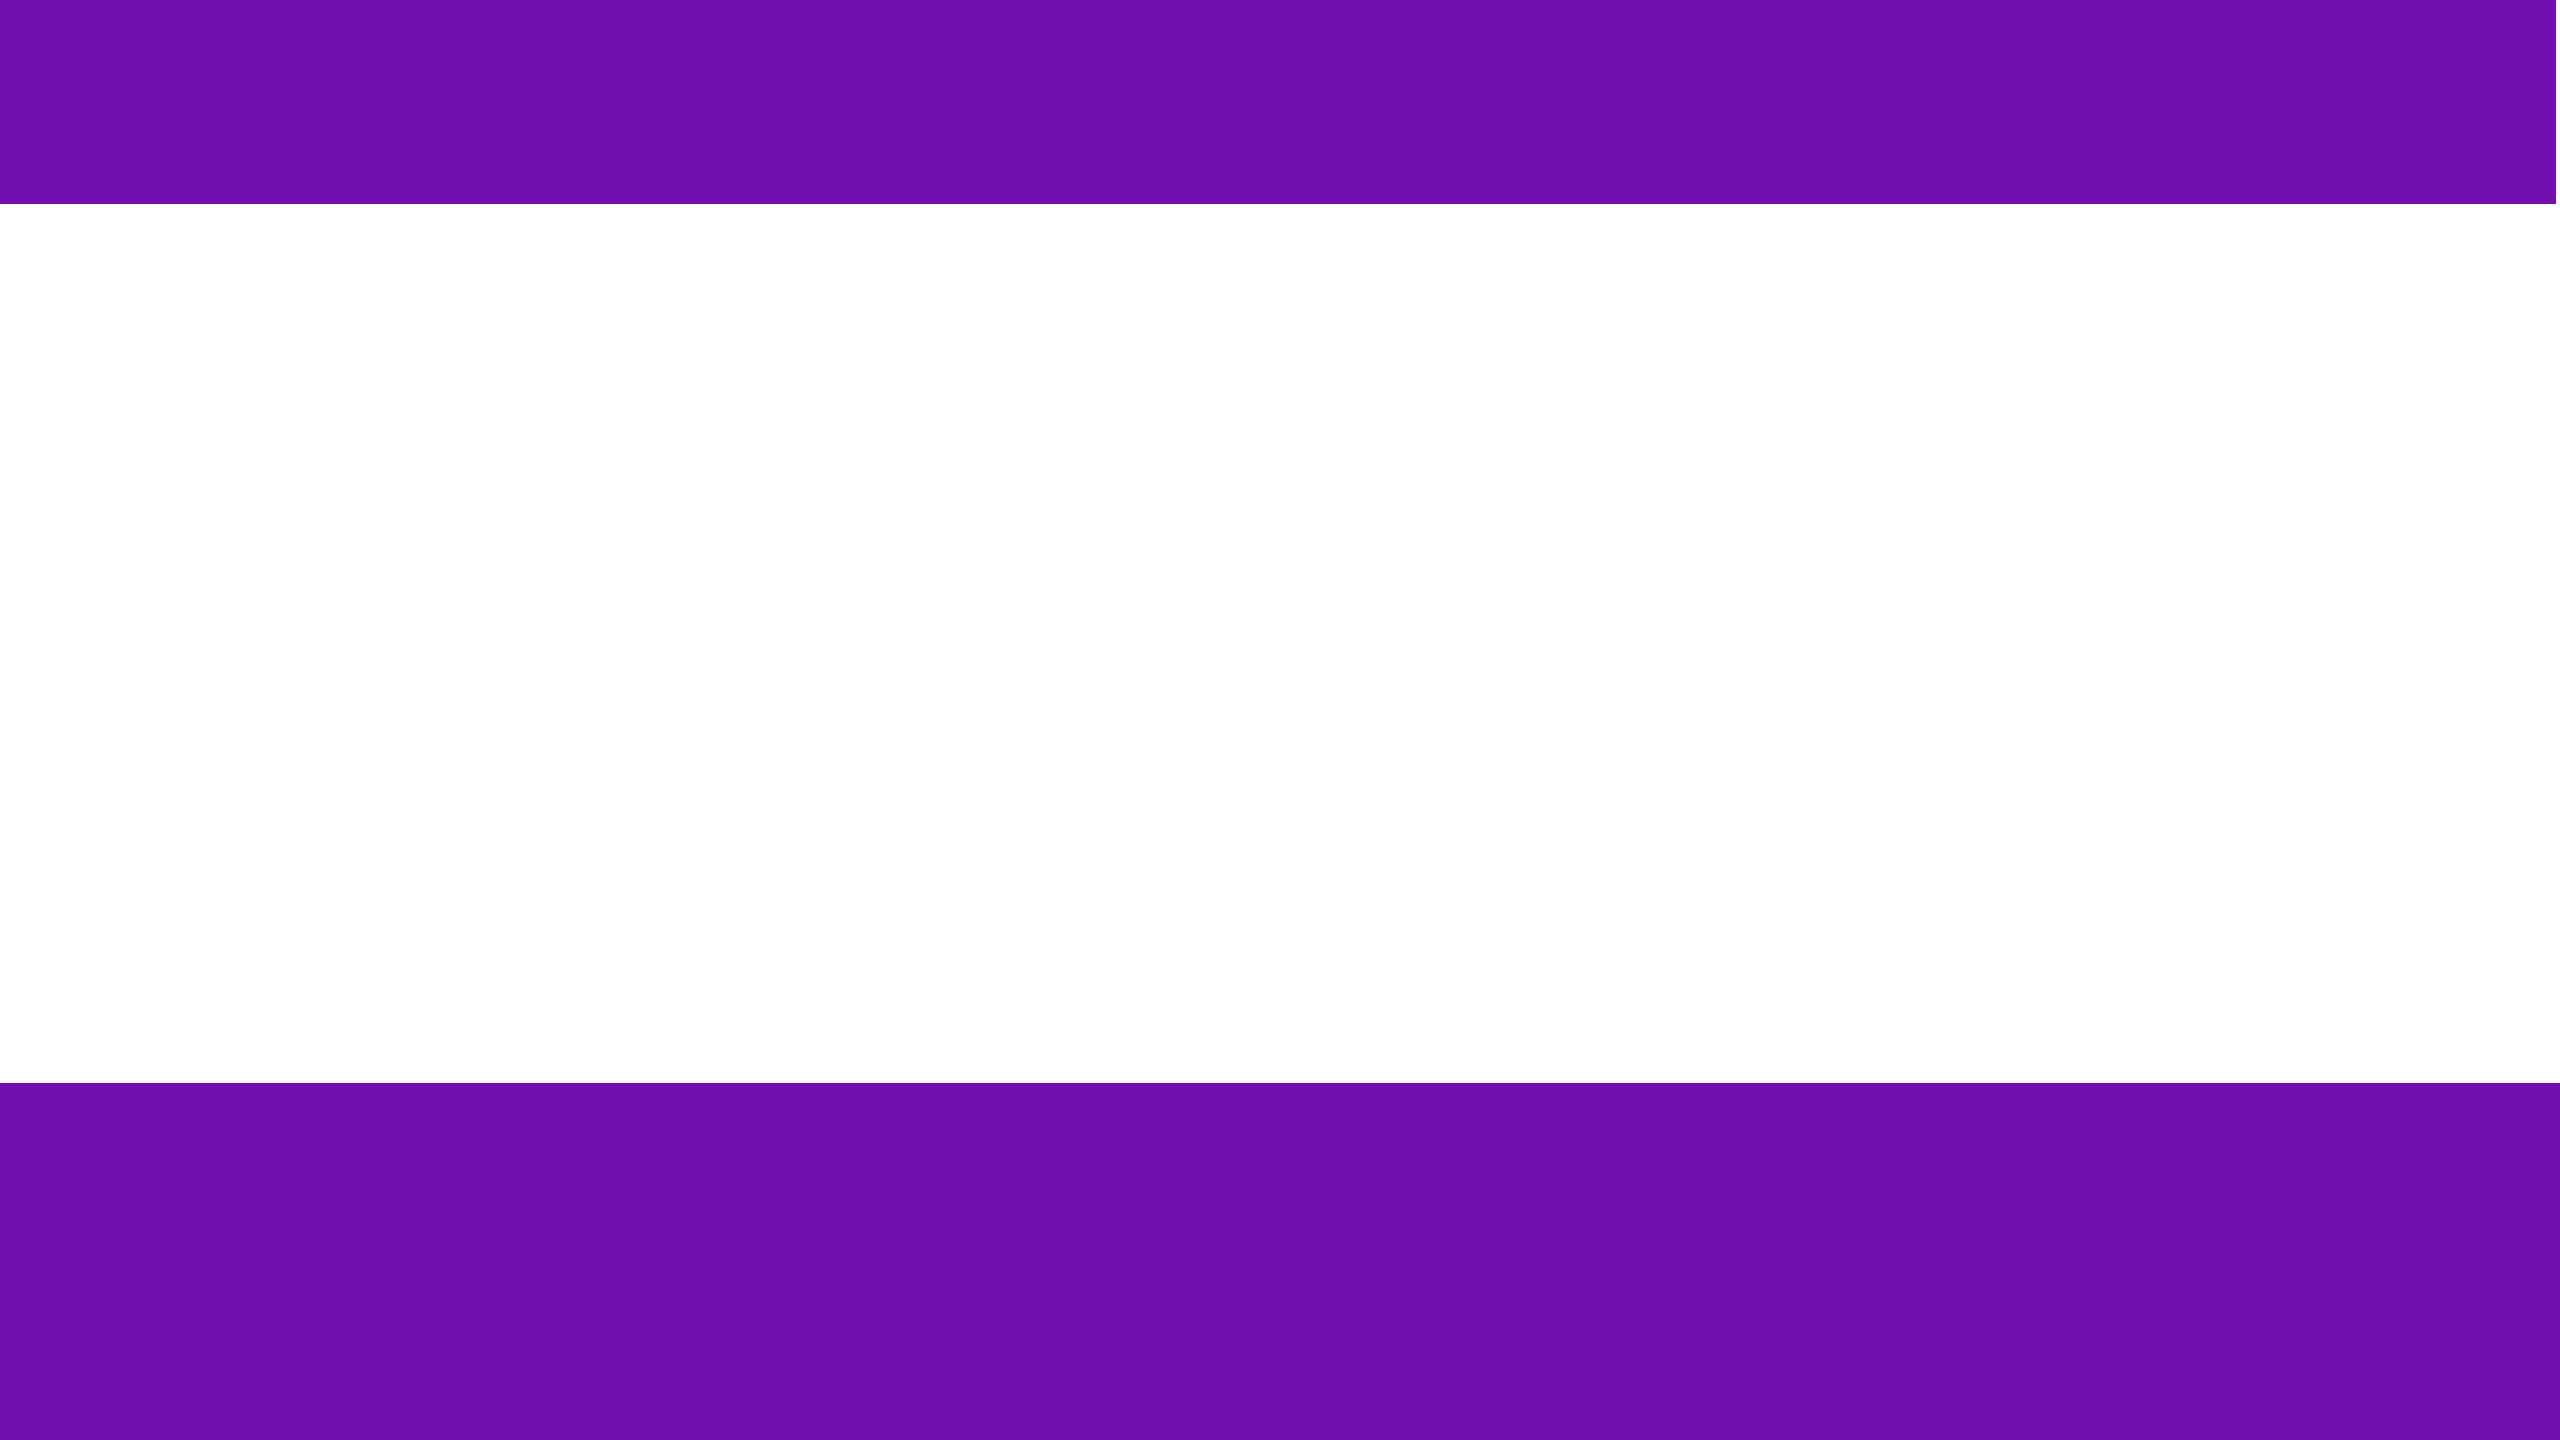
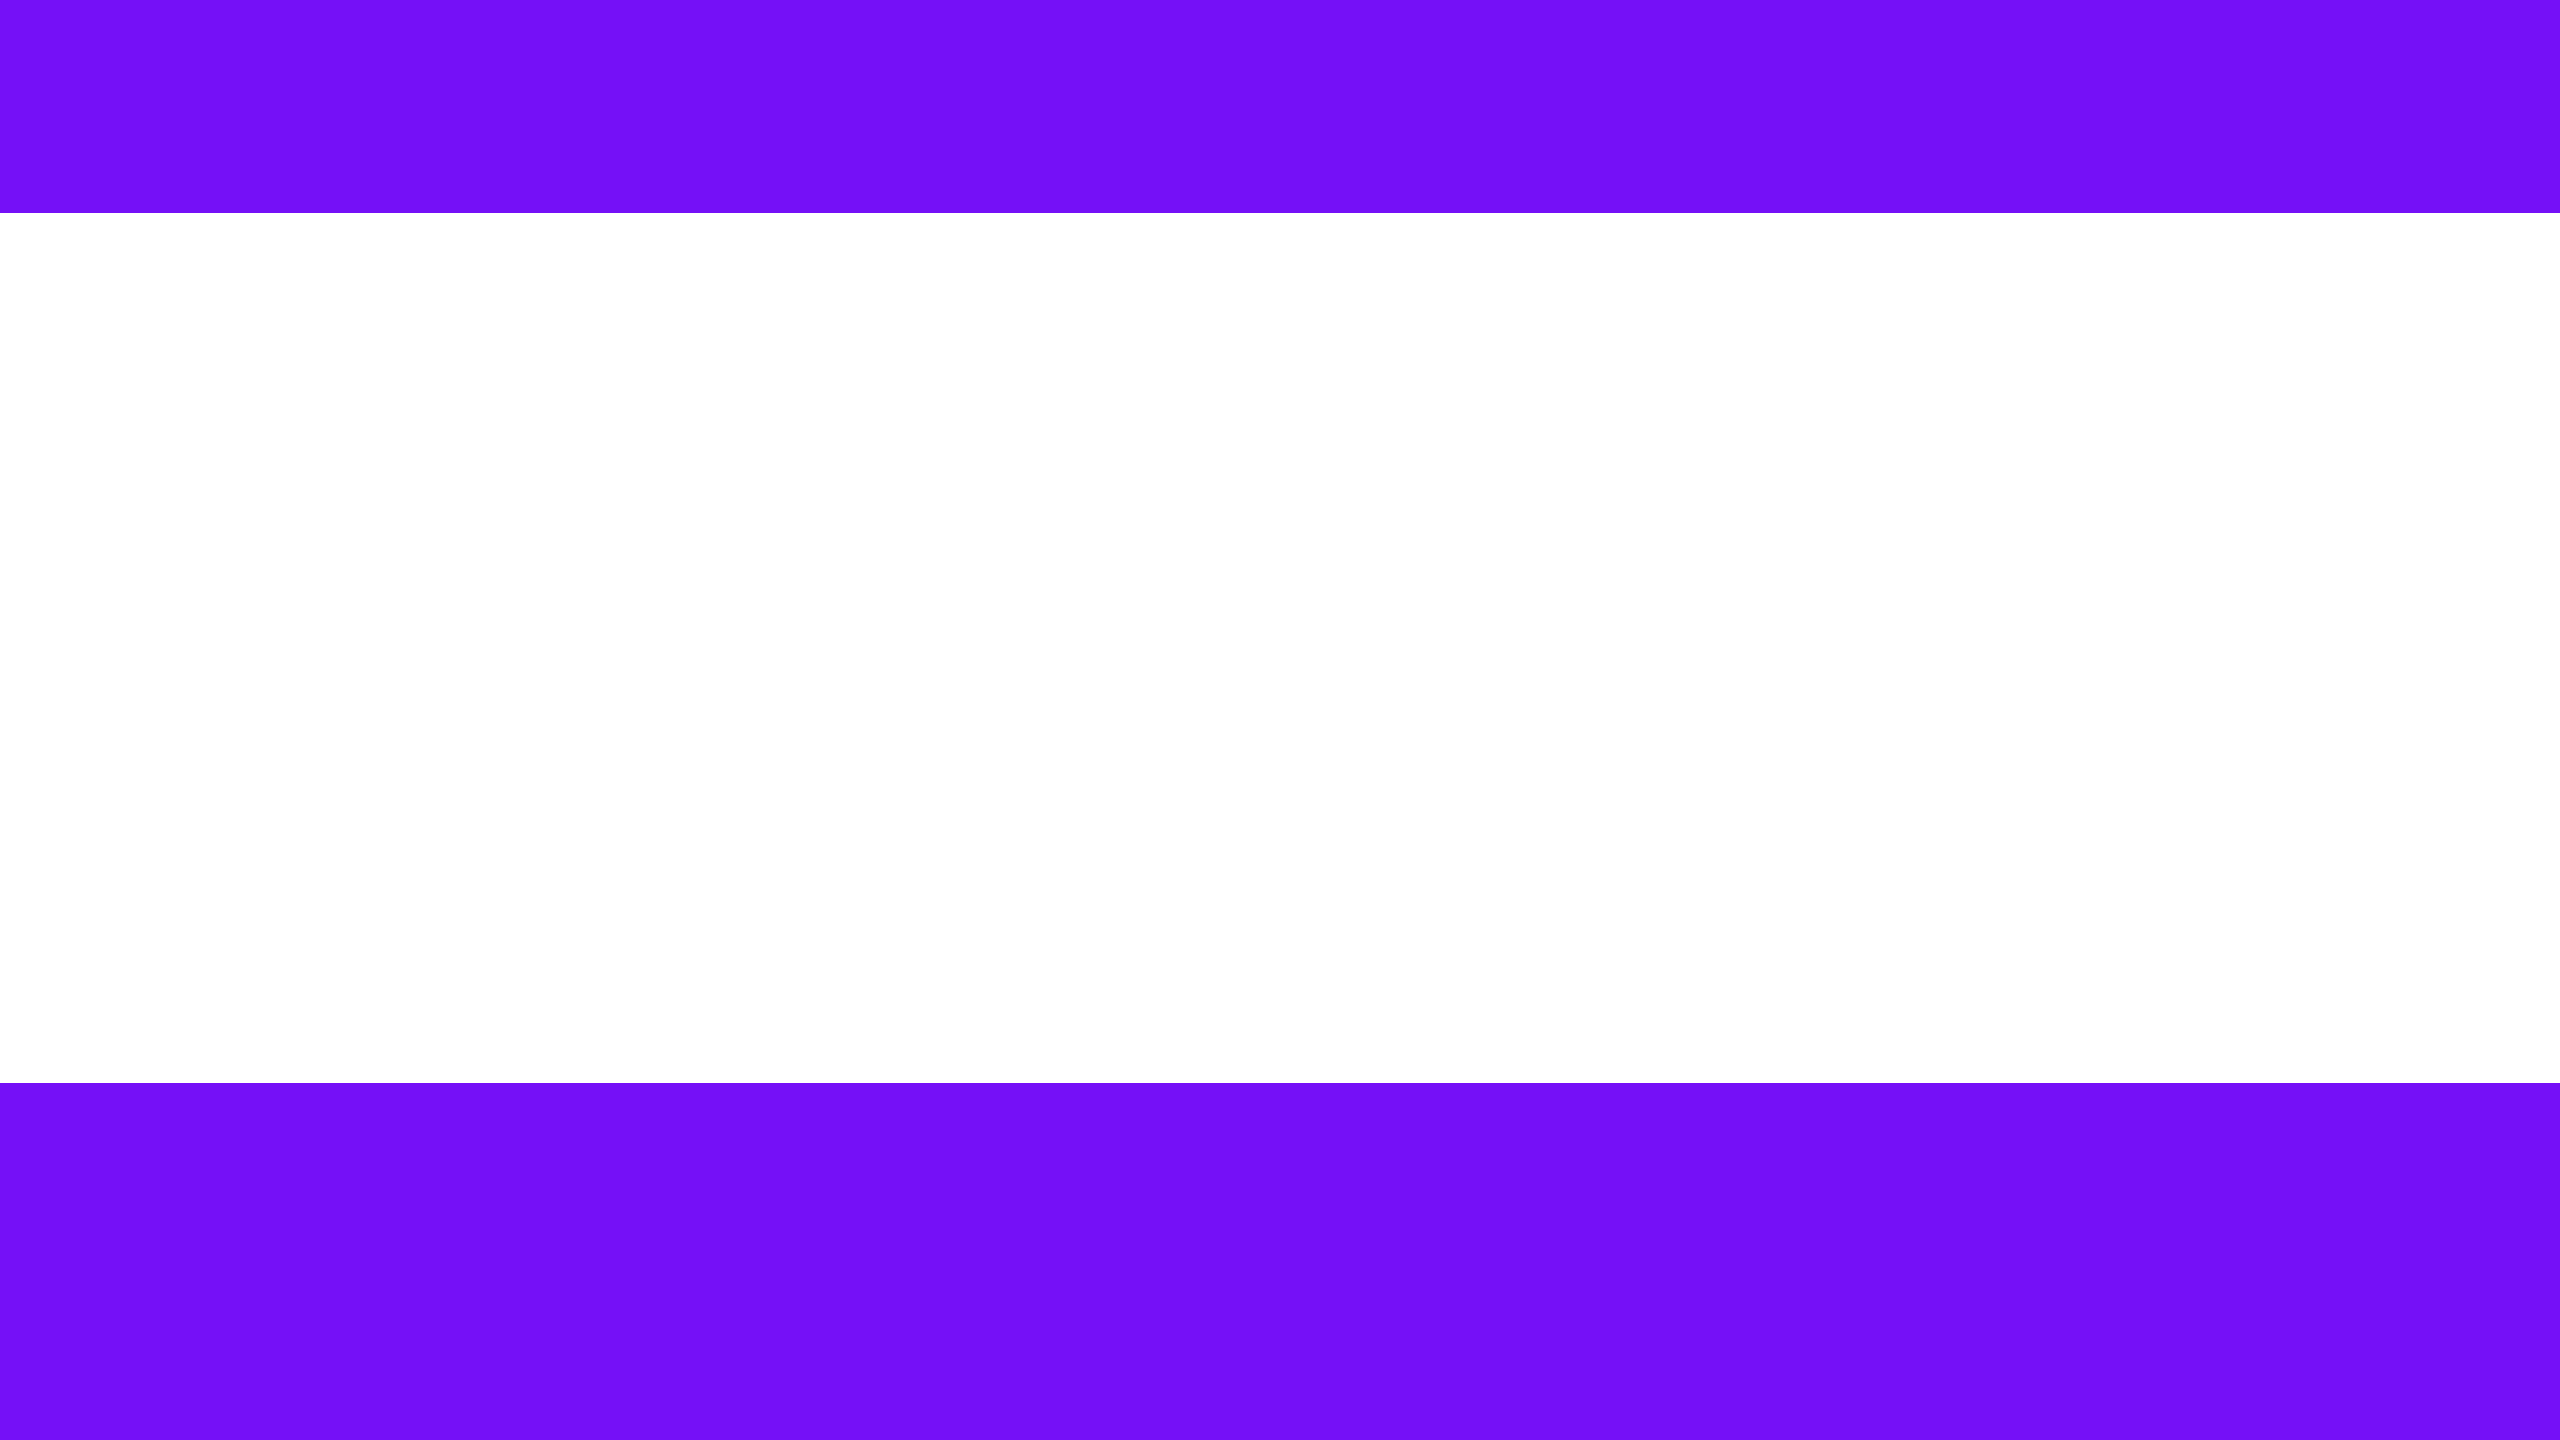
added project cards with clickable links

diff --git a/server/public/styles.css b/server/public/styles.css
@@ -1,5 +1,5 @@
 #root{
-  font-family: 'Staatliches', cursive;
+  font-family: 'Muli', sans-serif;
 }
 
 body{
@@ -55,13 +55,13 @@ body{
 }
 
 .code-icon{
-  color: #740faf;
+  color: #7510F7;
   margin-right: 1vw;
 }
 
 .smiling-emoji-backdrop{
   margin-top: 3vh;
-  background-color: #740faf;
+  background-color: #7510F7;
   border-radius: 50%;
   height: 27vmin;
   width: 27vmin;
@@ -122,7 +122,7 @@ body{
 
 .vertical-page-nav-button-text{
   margin-left: 1vw;
-  color: black;
+  color: indigo;
   width: 100%;
   line-height: 230%
 }
@@ -133,7 +133,7 @@ body{
   flex-direction: row;
   height: 5vh;
   width: 25vw;
-  background-color: #740faf;
+  background-color: #7510F7;
   right: 0;
   font-size: 1.2rem;
 }
@@ -149,9 +149,94 @@ body{
   text-align: center;
 }
 
-
-
 .top-nav-button:hover{
   color: lightgray;
   cursor: pointer;
+}
+
+.project-card-container{
+  display: flex;
+  position: absolute;
+  align-items: center;
+  justify-content: center;
+  height: 80%;
+  width: 80%;
+  left: 10%;
+  margin-top: 3.5vh;
+}
+.project-card{
+  height: 80%;
+  width: 28%;
+  margin: 2vw;
+  background-color: white;
+  box-shadow: 1px 1px 3px black;
+}
+
+.project-card:hover{
+  transform: translate(-10px, -5px);
+  transition-duration: 1s;
+  transition-timing-function: ease-out;
+}
+
+.project-card-title{
+  font-size: 2.3rem;
+  padding-top: 1vh;
+  text-align: center;
+}
+
+.project-card-subtitle{
+  text-align: center;
+  align-self: center;
+  height: 10%;
+
+  font-family: 'Muli', sans-serif;
+  font-size: 1.1rem;
+}
+
+.book-master{
+  height: 13rem;
+  margin-left: 5vw;
+}
+
+.ad-me{
+  height: 7rem;
+  margin-top: 5vh;
+  margin-left: 2vw;
+}
+
+.project-card-image-container{
+  height: 40%;
+}
+
+.technologies-slab{
+  display: flex;
+  width: 100%;
+  margin-top: 2vh;
+  justify-content: center;
+}
+
+.technologies-label{
+  font-size: 1.5rem;
+  margin: .5rem;
+  font-family: 'Arimo', sans-serif;
+}
+
+.technologies-image{
+  height: 3rem;
+  margin-left: 1rem;
+}
+
+.visit-project-button{
+  margin-top: 2vh;
+  background-color: #7510F7;
+  color: white;
+  box-shadow: .5px 1px 1px blanchedalmond;
+  width: 100%;
+  font-size: 1.2rem;
+  padding: .5rem;
+  font-family: 'Muli', sans-serif;
+}
+
+.visit-project-button:active{
+  transform: translate(5px, 5px);
 }

diff --git a/client/components/project-card.jsx b/client/components/project-card.jsx
@@ -1,0 +1,43 @@
+import React from 'react';
+
+export default function ProjectCard(props) {
+  return (
+    <div className='project-card'>
+      <div className='project-card-title'>{props.title}</div>
+      <div className="project-card-image-container">
+        <img className={'project-card-image ' + props.class} src={props.imgSrc} alt="Missing Img" />
+      </div>
+      <div className={'project-card-subtitle'}>{props.subtitle}</div>
+      {props.title === 'BookMaster' ? <>
+      <div className='technologies-slab'>
+        <img className='technologies-image' src="./images/react.png" alt=""/>
+        <div className='technologies-label'>ReactJS</div>
+        <img className='technologies-image' src="./images/nodejs.png" alt="" />
+        <div className='technologies-label'>Node.js</div>
+      </div>
+      <div className='technologies-slab'>
+        <img className='technologies-image' src="./images/mysql.png" alt="" />
+        <div className='technologies-label'>MySQL</div>
+      </div>
+      </>
+        : <>
+        <div className='technologies-slab'>
+          <img className='technologies-image' src="./images/react.png" alt="" />
+          <div className='technologies-label'>ReactJS</div>
+          <img className='technologies-image' src="./images/php.png" alt="" />
+          <div className='technologies-label'>PHP</div>
+        </div>
+        <div className='technologies-slab'>
+          <img className='technologies-image' src="./images/mysql.png" alt="" />
+          <div className='technologies-label'>MySQL</div>
+        </div>
+        </>}
+      <div className='technologies-slab'>
+        {props.title === 'BookMaster' ? <a href="http://dev.bookmaster.johnwsouth.com" target="__blank"> <button className='visit-project-button'>Visit Project</button></a>
+          : <a href="http://adme.sairafe.com" target="__blank"> <button className='visit-project-button'>Visit Project</button></a>
+        }
+      </div>
+    </div>
+
+  );
+}

diff --git a/client/containers/landing-page.jsx b/client/containers/landing-page.jsx
@@ -1,15 +1,24 @@
 import React from 'react';
-export default function LandingPage() {
-  return (
-    <div className='landing-page-title-container'>
-      <div className='landing-page-title'><i className="fas fa-code code-icon"></i> Full Stack Developer, Designer
-        <div className='landing-page-subtitle'> Simple code, beautiful applications </div>
+
+export default class LandingPage extends React.Component {
+  handleScroll(e) {
+    var element = e.target;
+    if (element.scrollHeight - element.scrollTop === element.clientHeight) {
+      // do something at end of scroll
+    }
+  }
+  render() {
+    return (
+      <div className='landing-page-title-container'>
+        <div className='landing-page-title'><i className="fas fa-code code-icon"></i> Full Stack Developer, Designer
+          <div className='landing-page-subtitle'> Simple code, beautiful applications </div>
+        </div>
+        <div className='smiling-emoji-container'>
+          <img className='smiling-emoji' src="./images/emonji-smile-2.png" alt="no face" />
+          <div className='smiling-emoji-backdrop'></div>
+        </div>
+        <img className='web-development-image' src="./images/webdevelopment.svg" alt="no image" />
       </div>
-      <div className='smiling-emoji-container'>
-        <img className='smiling-emoji' src="./images/emonji-smile-2.png" alt="no face" />
-        <div className='smiling-emoji-backdrop'></div>
-      </div>
-      <img className='web-development-image' src="./images/webdevelopment.svg" alt="no image" />
-    </div>
-  );
+    );
+  }
 }

diff --git a/client/containers/my-projects.jsx b/client/containers/my-projects.jsx
@@ -1,10 +1,37 @@
 import React from 'react';
+import ProjectCard from '../components/project-card';
 
 export default function MyProjects() {
+  var createProjectElements = () => {
+    var projectTextArr = ['BookMaster', 'AdMe'];
+    var projectClass = ['book-master', 'ad-me'];
+    var projectImgSrcArr = ['./images/bookMaster.png', './images/adMe.png'];
+    var projectSubTextArr = [
+      'A Bookkeeping Application Focused on Organization and Periodization',
+      'A Creator based Advertisement/Marketing Application'
+    ];
+    var projectCardElemArr = [];
+    for (var i = 0; i < 2; i++) {
+      projectCardElemArr.push(<ProjectCard
+        key={projectTextArr[i]}
+        title={projectTextArr[i]}
+        subtitle={projectSubTextArr[i]}
+        imgSrc={projectImgSrcArr[i]}
+        class={projectClass[i]}/>);
+    }
+    return projectCardElemArr;
+  };
+  var projectCards = createProjectElements();
   return (
+    <>
     <div className = 'projects-page-title-container'>
-      <div className='projects-page-title'><i className="fas fa-project-diagram" style={{ fontSize: '3rem', paddingRight: '2vw', color: 'white' }}></i>My Projects</div>
+      <div className='projects-page-title'><i className="fas fa-cogs" style={{ lineHeight: '-200%', fontSize: '3rem', paddingRight: '2vw', color: 'white' }}></i>My Projects</div>
     </div>
+    <div className='project-card-container'>
+      {projectCards}
+    </div>
+
+    </>
 
   );
 }

diff --git a/server/public/index.html b/server/public/index.html
@@ -16,6 +16,8 @@
   <link href="https://fonts.googleapis.com/css?family=Courier+Prime&display=swap" rel="stylesheet">
   <link href="https://fonts.googleapis.com/css?family=Arimo&display=swap" rel="stylesheet">
   <link href="https://fonts.googleapis.com/css?family=Paytone+One&display=swap" rel="stylesheet">
+  <link href="https://fonts.googleapis.com/css?family=Muli&display=swap" rel="stylesheet">
+  <link href="https://fonts.googleapis.com/css?family=Open+Sans&display=swap" rel="stylesheet">
   <link rel="stylesheet" href="./styles.css">
 
 
